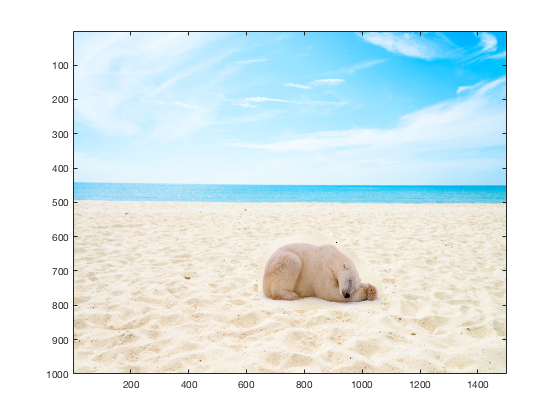
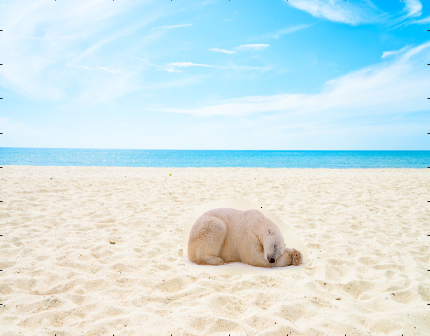
timing

diff --git a/poisson_merge/starter.m b/poisson_merge/starter.m
@@ -20,17 +20,20 @@ if DO_BLEND
     %im_object = imresize(im2double(imread('../data/black_manta.png')), 0.5, 'bilinear');
     %im_background = imresize(im2double(imread('../data/sky.jpg')), 0.5, 'bilinear');
     %im_object = imresize(im2double(imread('../data/king.jpg')), 0.5, 'bilinear');
-    im_background = imresize(im2double(imread('../data/beach.png')), 1, 'bilinear');
-    im_object = imresize(im2double(imread('../data/bear2.png')), 0.7, 'bilinear');
+    im_background = imresize(im2double(imread('../data/beach2.png')), 2, 'bilinear');
+    im_object = imresize(im2double(imread('../data/bear2.png')), 0.5, 'bilinear');
     
     % get source region mask from the user
-%     objmask = getMask(im_object);
+    objmask = getMask(im_object);
 
 
     % align im_s and mask_s with im_background
     [im_s, mask_s] = alignSource(im_object, objmask, im_background);
     % blend
+    timerVal = tic;
     im_blend = poissonBlend(im_s, mask_s, im_background);
+    timerVal2 = toc(timerVal);
+    timerVal2
     figure(3), hold off, imshow(mask_s)
     figure;
     imagesc(im_blend);

diff --git a/project.m b/project.m
@@ -1,10 +1,10 @@
-im_background = imresize(im2double(imread('data/beach.png')), 1, 'bilinear');
-im_object = imresize(im2double(imread('data/bear2.png')), 0.7, 'bilinear');
+im_background = imresize(im2double(imread('data/beach2.png')), 2, 'bilinear');
+im_object = imresize(im2double(imread('data/bear2.png')), 0.5, 'bilinear');
 
 
 % get source region mask from the user
-% [objmask, sx, sy] = getMask(im_object);
-% init_dP = [sy' sx'];
+[objmask, sx, sy] = getMask(im_object);
+init_dP = [sy' sx'];
 % align im_s and mask_s with im_background
 % im_background = merge_img;
 [im_s, mask_s, dP] = alignSource(im_object, objmask, im_background, init_dP);
@@ -25,7 +25,10 @@ im_src(repmat(mask_s, [1 1 3])) = im_s(repmat(mask_s, [1 1 3]));
 % axis ij;
 
 % [merge_img] = stitch_poisson(im_src,im_bgr);
+timerVal = tic;
 [merge_img, rxes] = mvc_clone(im_src,im_bgr,dP,mask_s);
+timerVal2 = toc(timerVal);
+timerVal2
 merge_img(repmat(mask_ns, [1 1 3])) = im_background(repmat(mask_ns, [1 1 3]));
 
 figure;
